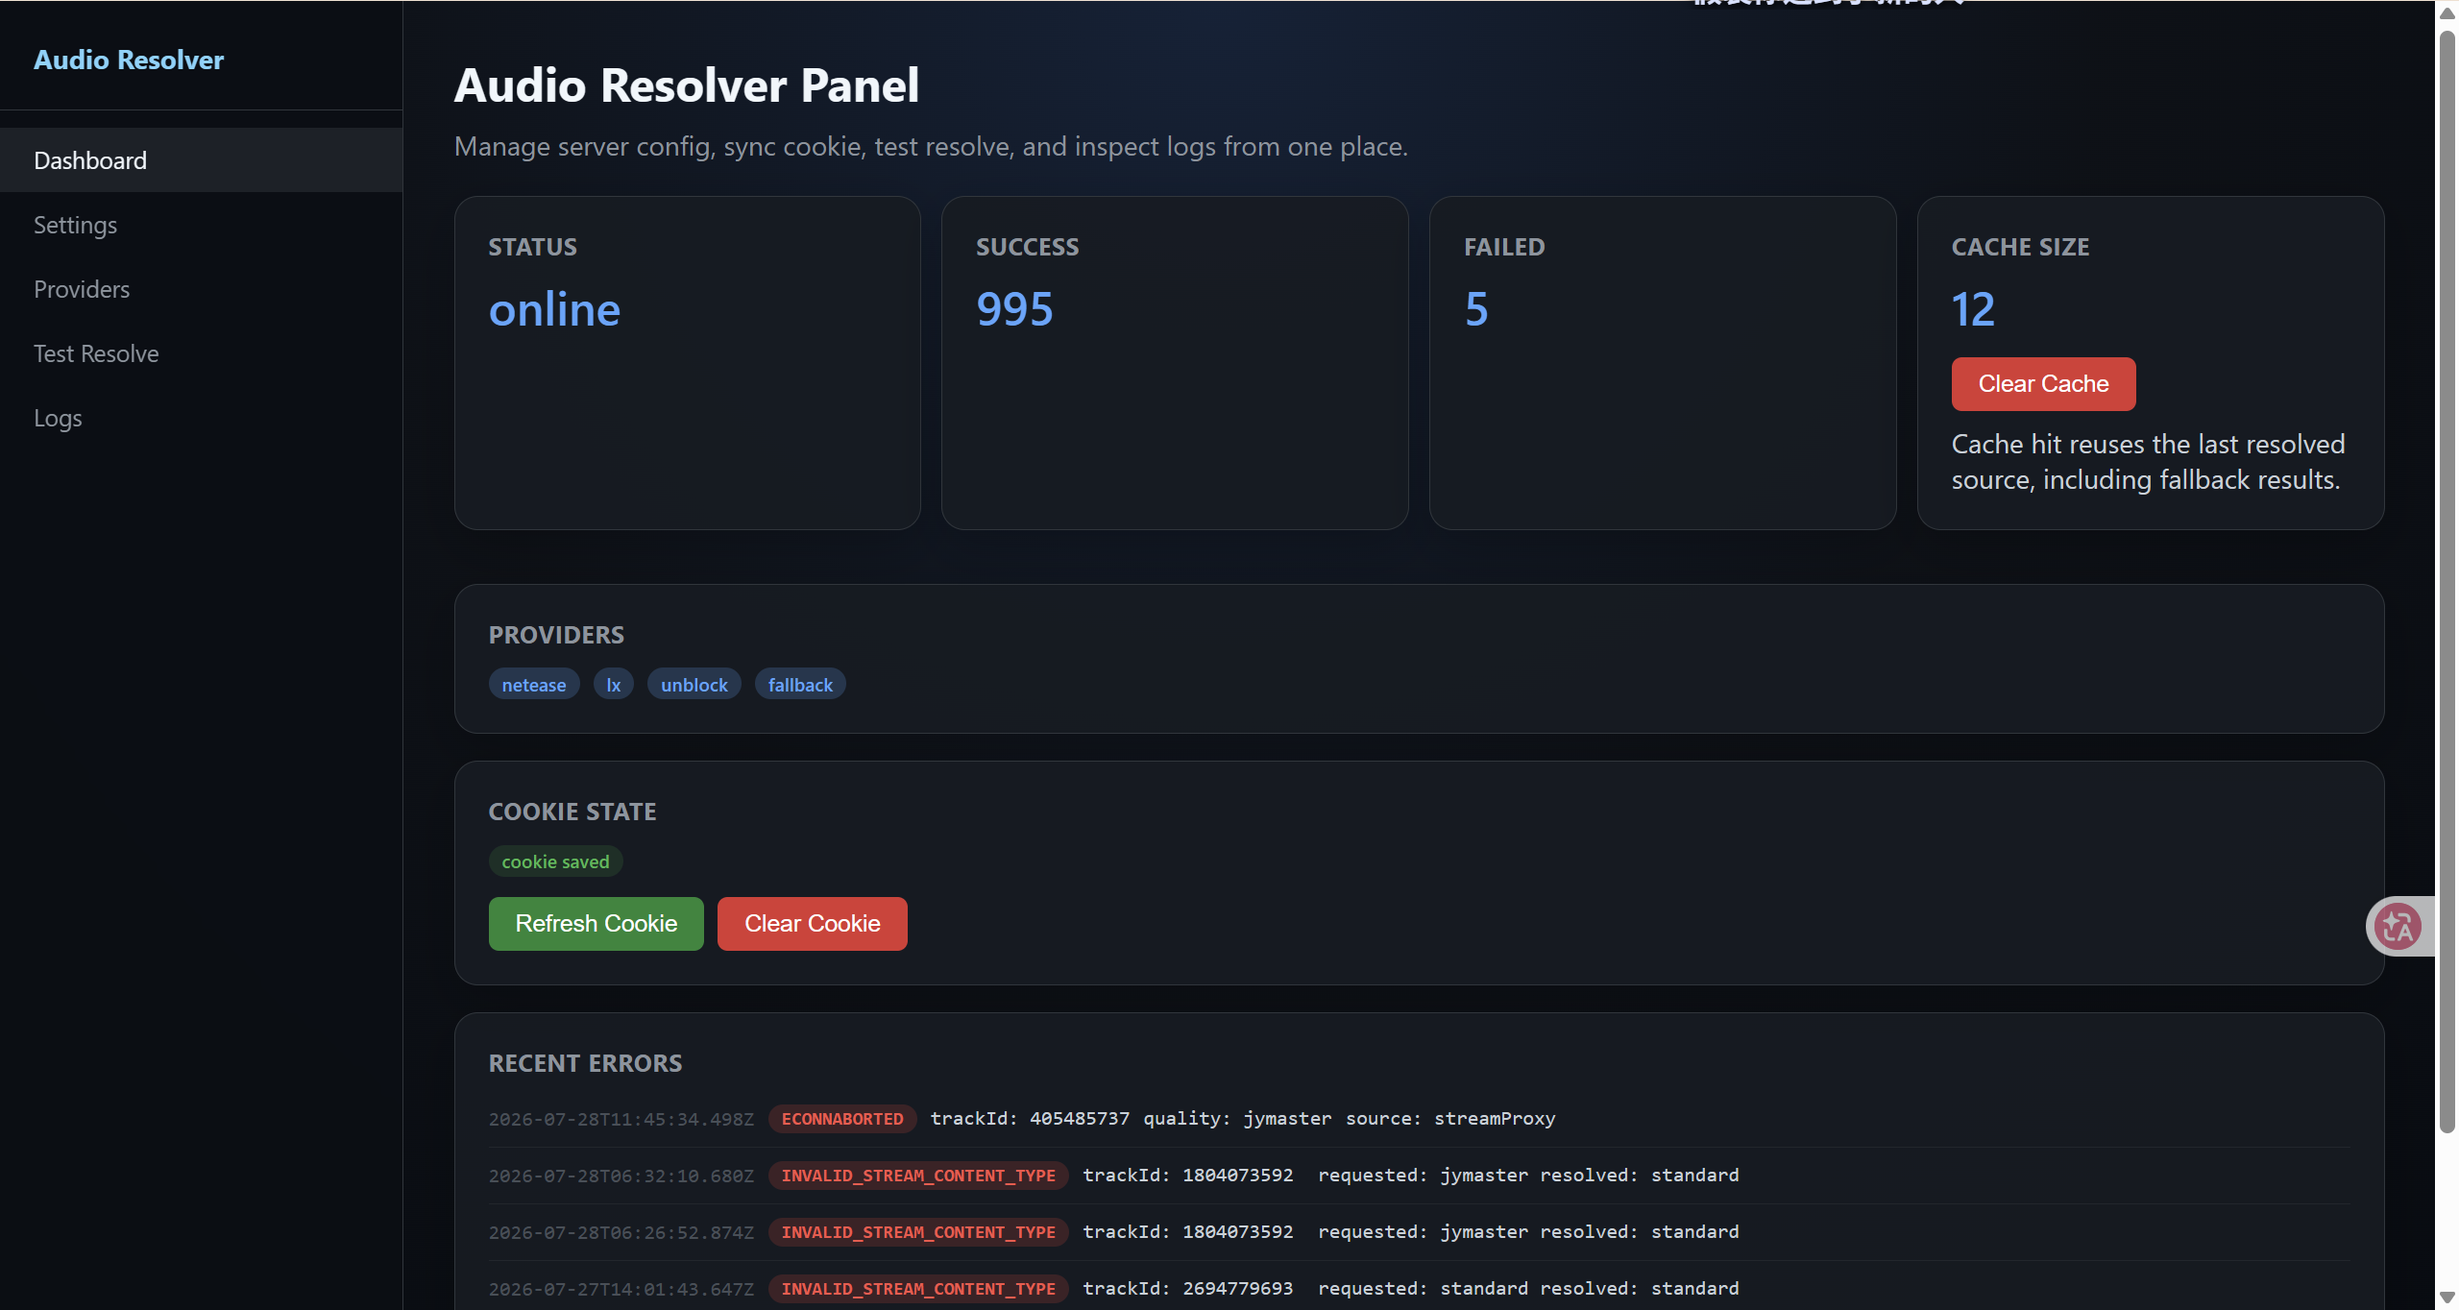
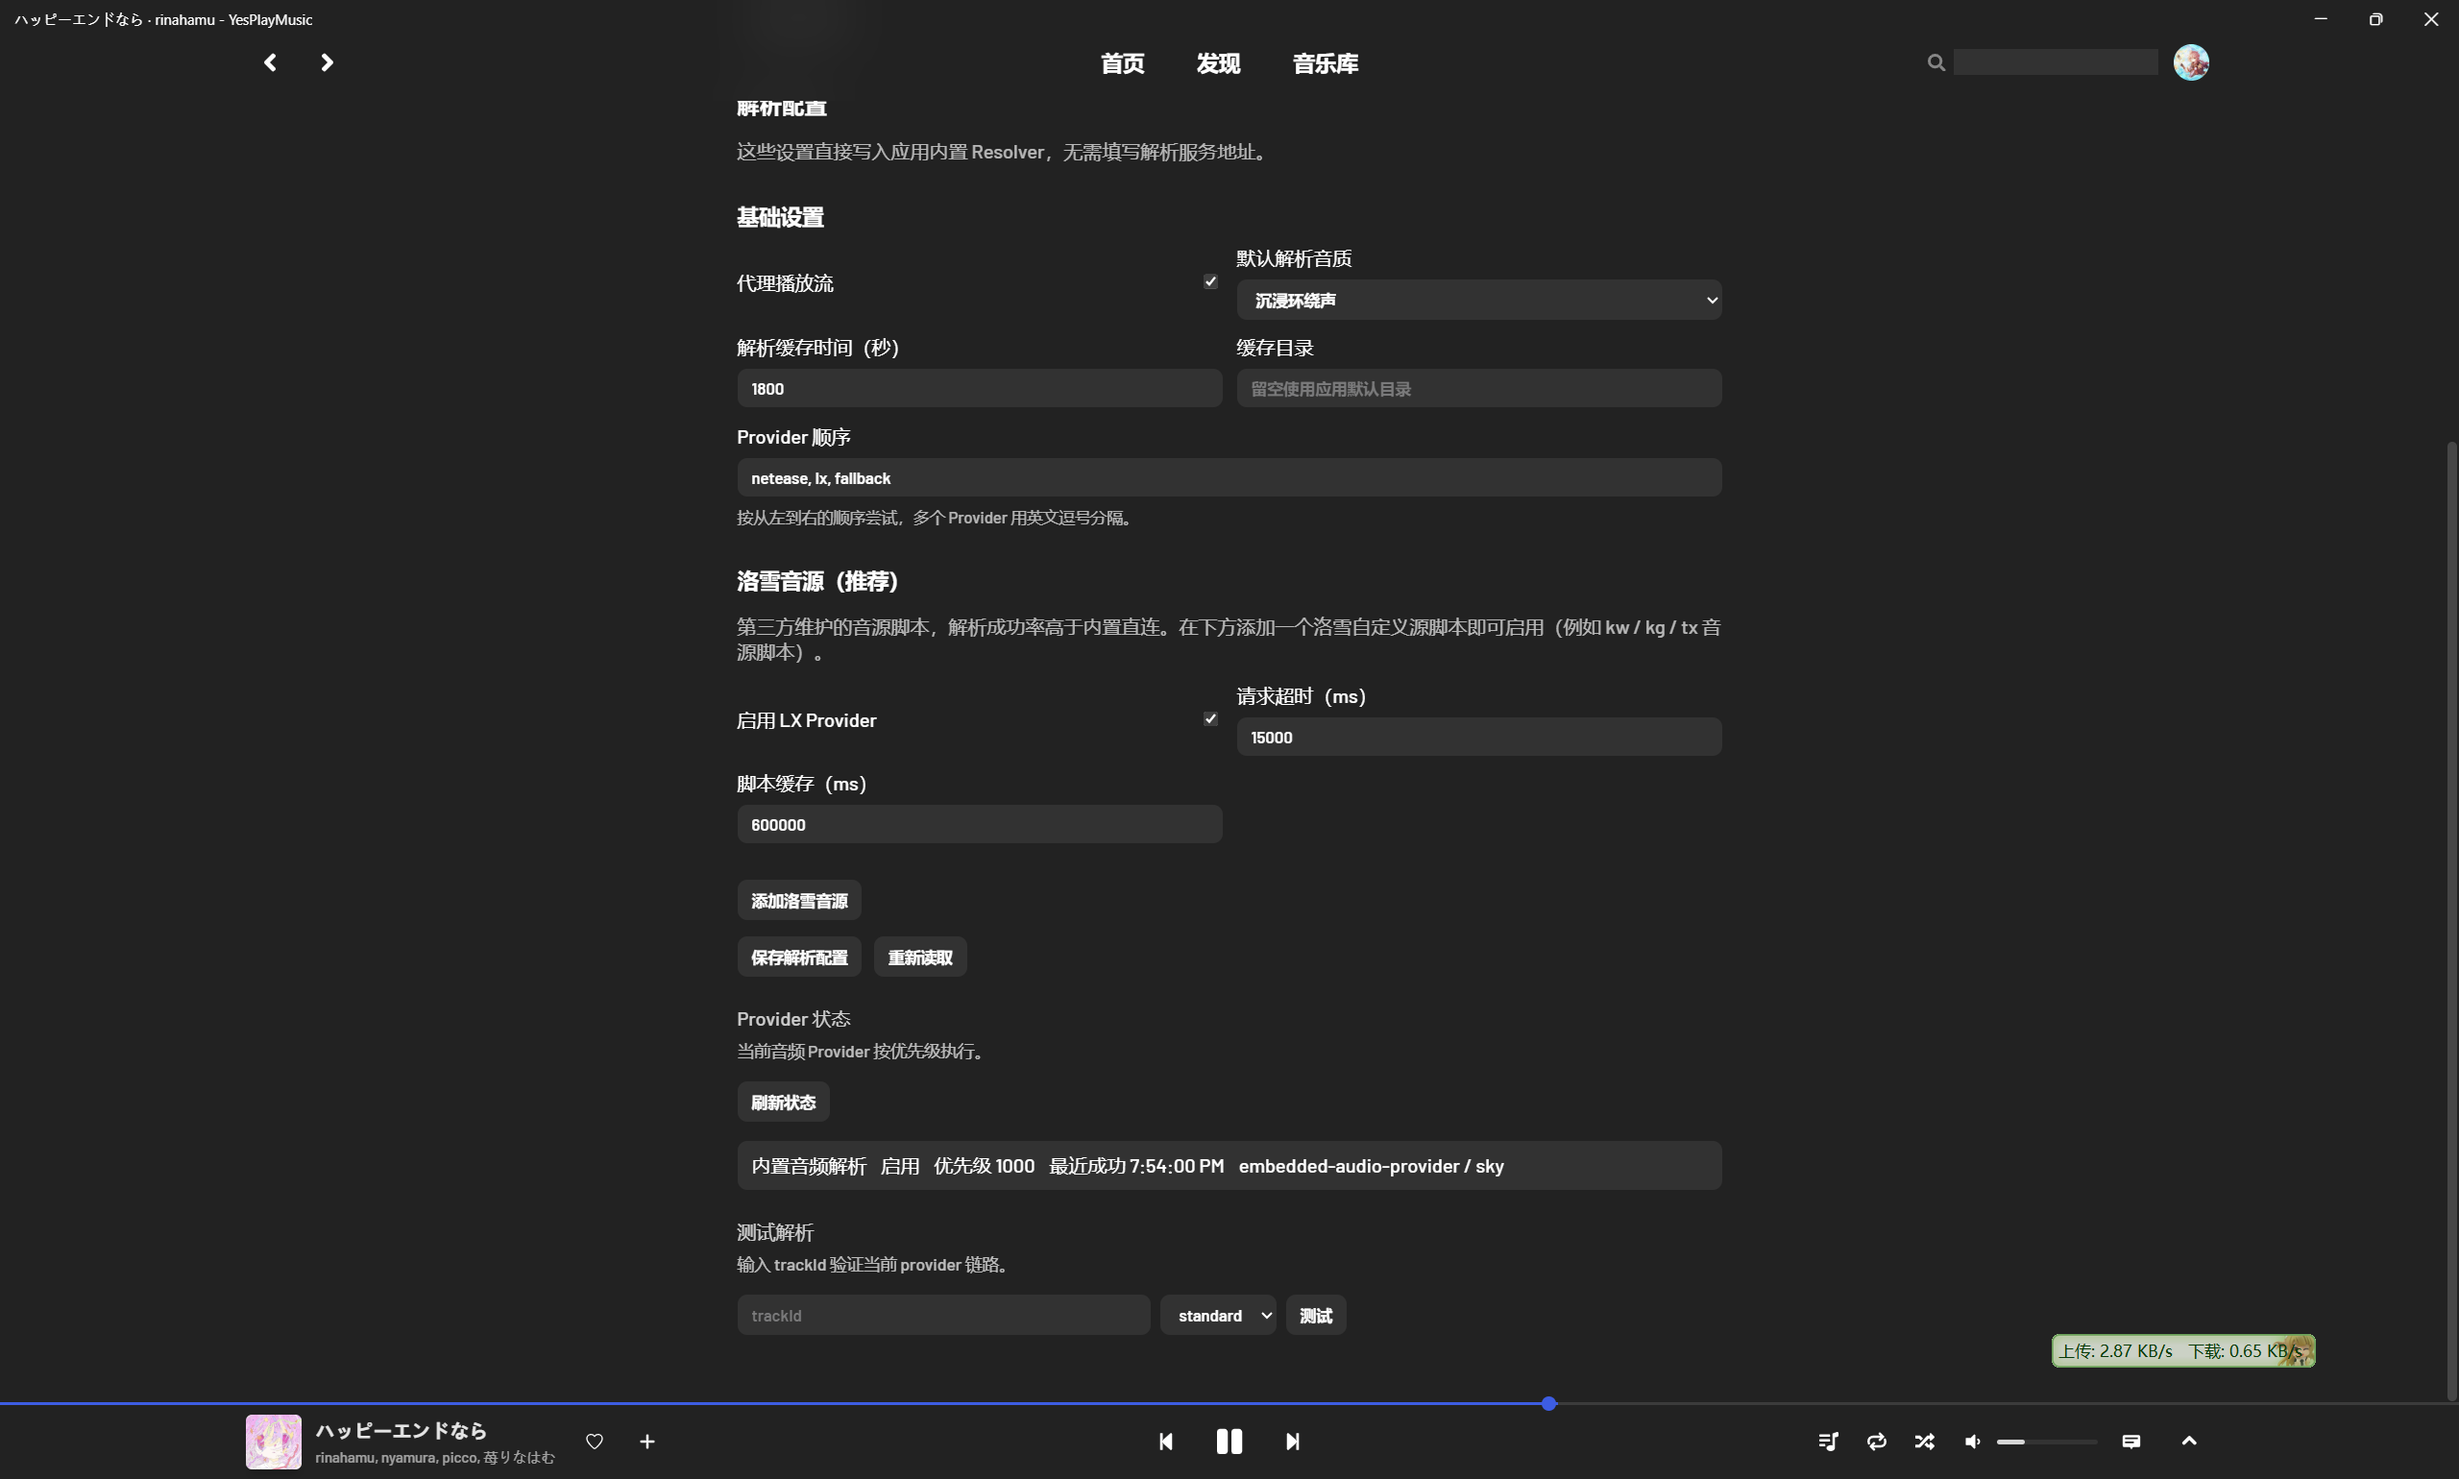
feat(navbar): redesign the search box as a themed pill
Give the navbar search input a translucent rounded container with a
placeholder, hover tint, and an expanding focus state with a soft
primary ring; hide the native search cancel button so it no longer
overlaps the custom clear button. Also refresh the resolver screenshot
and add the MCP screenshot used by the README.

diff --git a/src/components/Navbar.vue b/src/components/Navbar.vue
@@ -48,6 +48,7 @@
                 v-model="keywords"
                 type="search"
                 :aria-label="$t('nav.search')"
+                :placeholder="$t('nav.search')"
                 @keydown.esc.prevent="clearSearch"
                 @focus="inputFocus = true"
                 @blur="inputFocus = false"
@@ -399,39 +400,74 @@ nav.nav-bottom {
     display: flex;
     align-items: center;
     height: 32px;
-    background: transparent;
-    border-radius: 8px;
     width: 200px;
+    border: 1px solid transparent;
+    border-radius: 16px;
+    background: var(--color-secondary-bg-for-transparent);
+    transition:
+      width 0.25s ease,
+      background-color 0.2s ease,
+      border-color 0.2s ease,
+      box-shadow 0.2s ease;
+
+    &:hover {
+      background: rgba(128, 128, 128, 0.18);
+    }
+
+    &.active {
+      width: 240px;
+      border-color: rgba(128, 128, 128, 0.28);
+      box-shadow: 0 0 0 3px var(--color-primary-bg-for-transparent);
+
+      input,
+      .search-submit {
+        color: var(--color-primary);
+        opacity: 1;
+      }
+
+      .search-clear {
+        opacity: 0.7;
+      }
+    }
   }
 
   .search-submit,
   .search-clear {
     display: flex;
-    height: 28px;
-    flex: 0 0 28px;
+    height: 26px;
+    flex: 0 0 26px;
     align-items: center;
     justify-content: center;
     border: 0;
     padding: 0;
     color: var(--color-text);
     background: transparent;
-    opacity: 0.45;
+    opacity: 0.5;
+    cursor: pointer;
+    transition:
+      opacity 0.15s ease,
+      color 0.15s ease,
+      background-color 0.15s ease;
   }
 
   .search-submit {
-    margin-left: 2px;
+    margin-left: 5px;
+
+    &:hover {
+      opacity: 0.9;
+    }
   }
 
   .search-clear {
-    margin-right: 2px;
-    border-radius: 6px;
-    font-size: 20px;
-    font-weight: 400;
-  }
+    margin-right: 5px;
+    border-radius: 50%;
+    font-size: 18px;
+    line-height: 1;
 
-  .search-submit:hover,
-  .search-clear:hover {
-    opacity: 0.9;
+    &:hover {
+      opacity: 1;
+      background: rgba(128, 128, 128, 0.22);
+    }
   }
 
   .svg-icon {
@@ -447,30 +483,30 @@ nav.nav-bottom {
   .container .input input {
     width: 100%;
     border: none;
-    margin-top: -1px;
+    padding: 0;
     color: var(--color-text);
     background-color: transparent;
-    font-size: 16px;
-    font-weight: 600;
-  }
+    caret-color: var(--color-primary);
+    font-size: 14px;
+    font-weight: 500;
 
-  .active {
-    background: transparent;
-    input,
-    .search-submit,
-    .search-clear {
-      color: var(--color-primary);
-      opacity: 1;
+    &::placeholder {
+      color: var(--color-text);
+      font-weight: 400;
+      opacity: 0.35;
+    }
+
+    &::-webkit-search-cancel-button {
+      display: none;
     }
   }
 }
 
 [data-theme='dark'] {
   .search-box {
-    .active {
+    .container.active {
       input,
-      .search-submit,
-      .search-clear {
+      .search-submit {
         color: var(--color-text);
       }
     }
